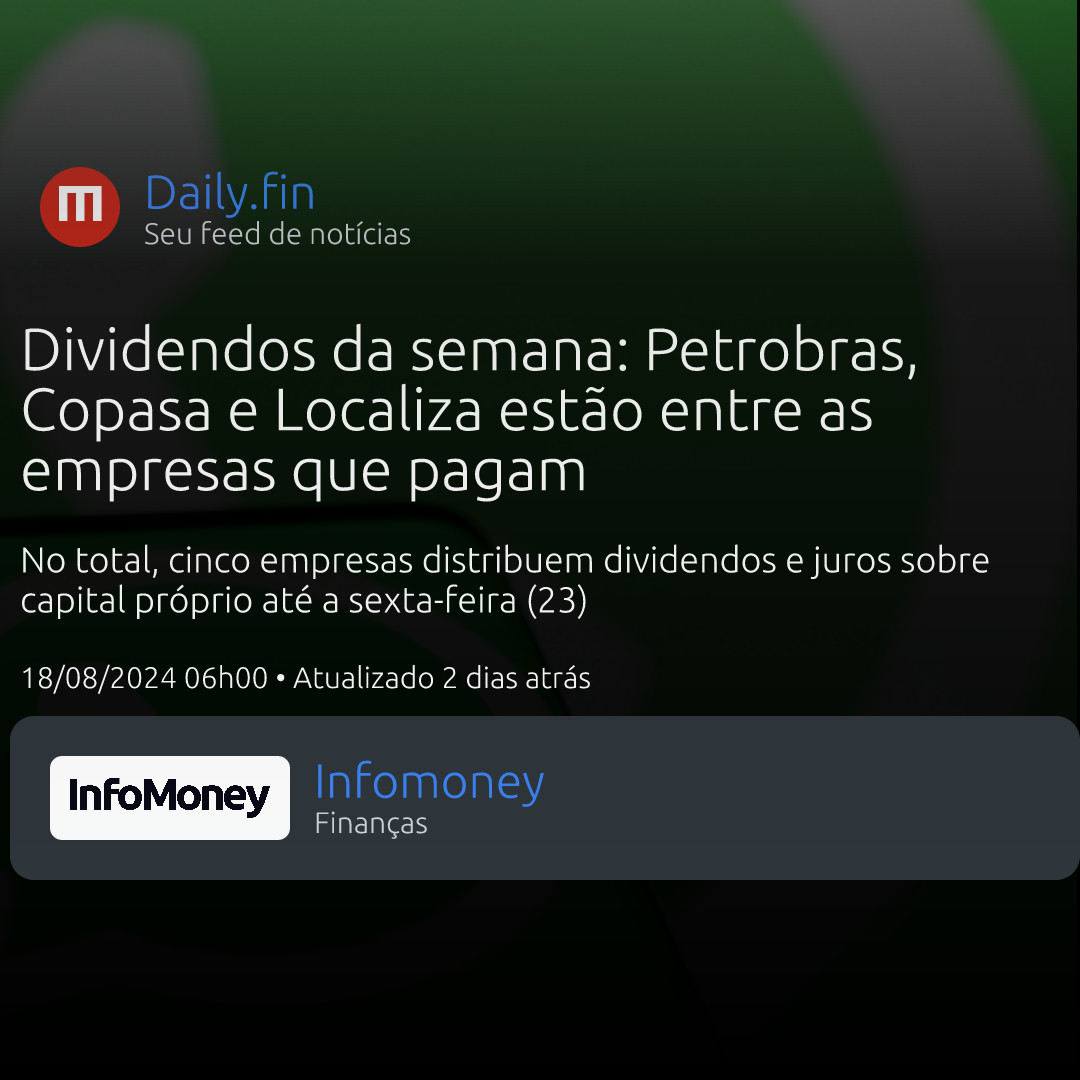
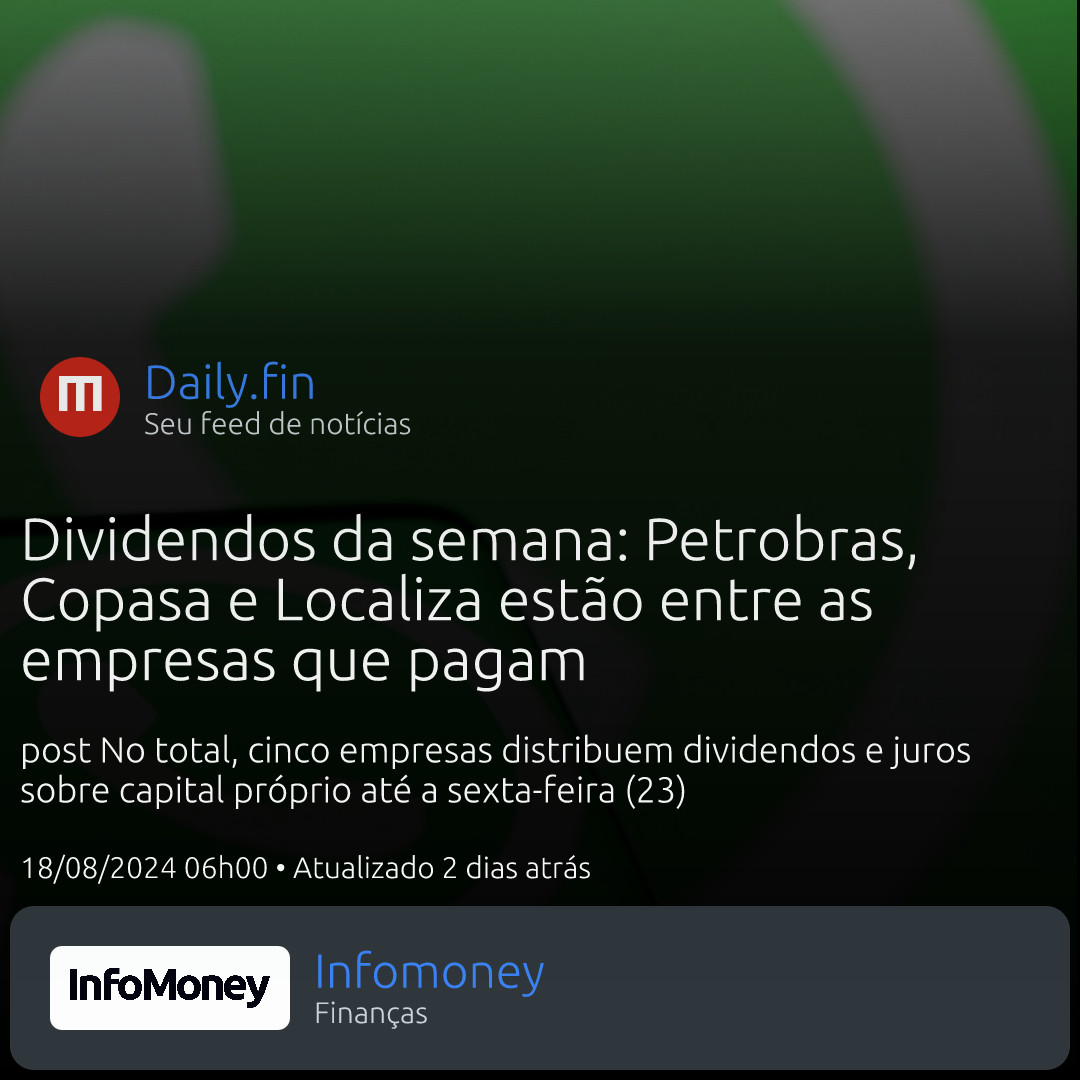
Margin diferente entre post e story

diff --git a/src/GreetingsCard.tsx b/src/GreetingsCard.tsx
@@ -20,27 +20,35 @@ export class GreetingsCard extends Builder<Props> {
     switch (value) {
       case 'story':
         super(1080, 1920);
+        this.setSize('story')
         break;
       case 'post':
         super(1080, 1080);
+        this.setSize('post')
         break;
       case 'postlg':
         super(1080, 608);
+        this.setSize('postlg')
         break;
       default:
         super(1080, 608);
         break;
     }
 
-    this.bootstrap({
-      displayName: "",
-      type: "welcome",
-      avatar: "",
-      message: "",
-      size: "story"
-    });
+    // this.bootstrap({
+    //   displayName: "",
+    //   type: "welcome",
+    //   avatar: "",
+    //   message: "",
+    //   size: this.s
+    // });
   }
 
+  setSize(value: "story" | "post" | "postlg") {
+    this.options.set("size", value);
+    return this;
+  }
+  
   setDisplayName(value: string) {
     this.options.set("displayName", value);
     return this;
@@ -63,7 +71,7 @@ export class GreetingsCard extends Builder<Props> {
 
   // this is where you have to define output ui
   async render() {
-    const { type, displayName, avatar, message } = this.options.getOptions();
+    const { type, displayName, avatar, message, size } = this.options.getOptions();
 
     // make sure to use the loadImage helper function to load images, otherwise you may get errors
     const image = await loadImage("https://files.metropoles.com/static/expediente/assets/images/general/portal-metropoles.jpg");
@@ -130,9 +138,9 @@ export class GreetingsCard extends Builder<Props> {
 
 
             <h1 className="text-6xl text-white px-[20px] font-black">Dividendos da semana: Petrobras, Copasa e Localiza estão entre as empresas que pagam</h1>
-            <h3 className="text-4xl text-white px-[20px]">No total, cinco empresas distribuem dividendos e juros sobre capital próprio até a sexta-feira (23)</h3>
+            <h3 className="text-4xl text-white px-[20px]"> {size} No total, cinco empresas distribuem dividendos e juros sobre capital próprio até a sexta-feira (23)</h3>
             <h4 className="text-3xl text-white px-[20px]">18/08/2024 06h00 • Atualizado 2 dias atrás</h4>
-            <div className="flex items-center p-10 bg-[#30363d] rounded-3xl	 mb-[200px] ml-[10px]" >
+            <div className={`flex items-center p-10 bg-[#30363d] rounded-3xl ${size === 'story' ? 'mb-[200px]' : 'mb-[10px]'} mx-[10px]`} >
               <div className="flex items-center bg-[#FFFFFF] rounded-xl px-[20px]	 h-[100%]">
                 <img
                   src={logo.toDataURL()}

diff --git a/src/server.ts b/src/server.ts
@@ -245,7 +245,7 @@ app.get("/image", async (req: Request, res: Response) => {
 
   fs.writeFileSync("file.jpg", image);
 
-  await postToInstaImage(image, true);
+  await postToInstaImage(image, false);
 
   res.send("Postando no story instagram");
 });
